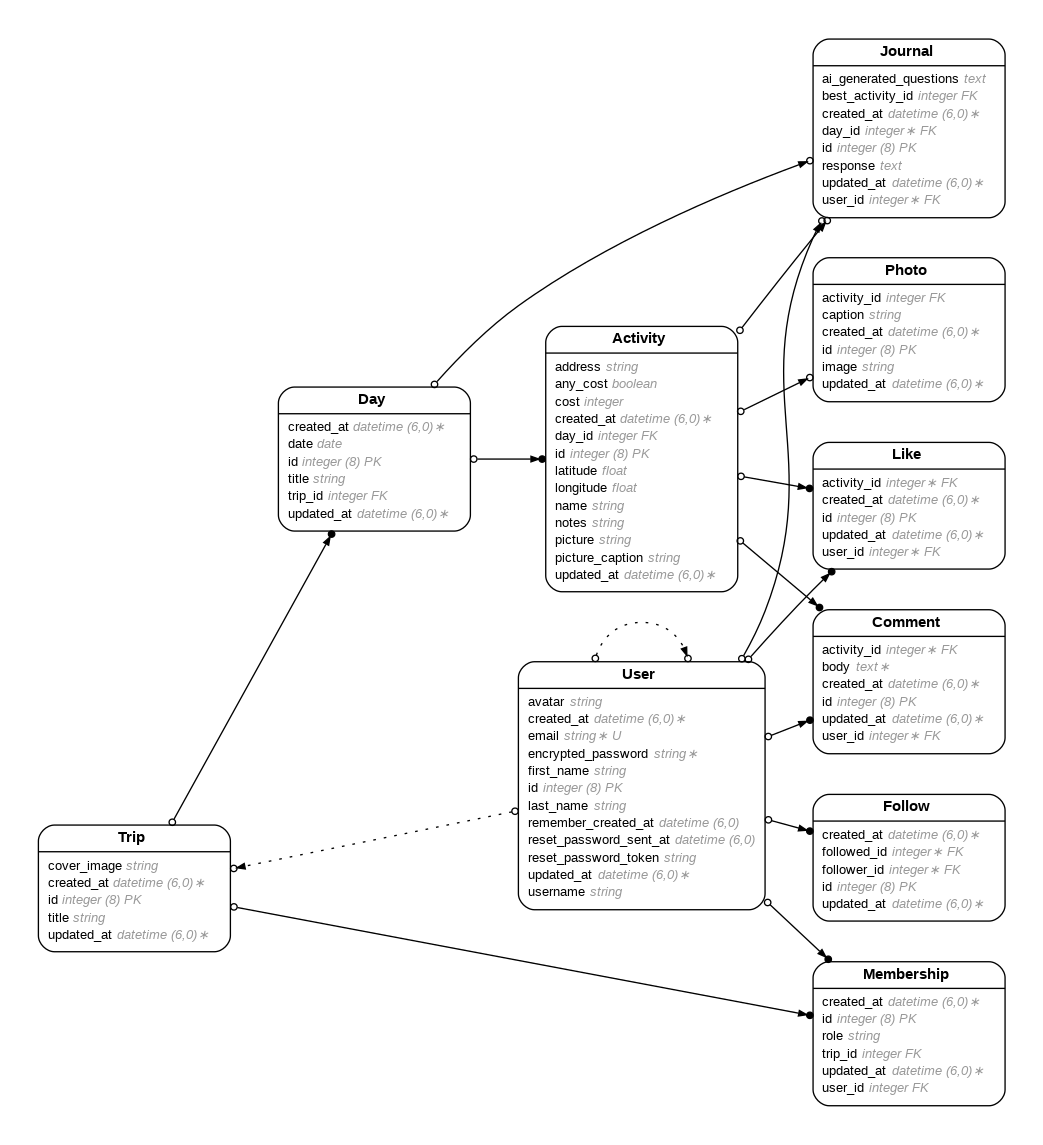
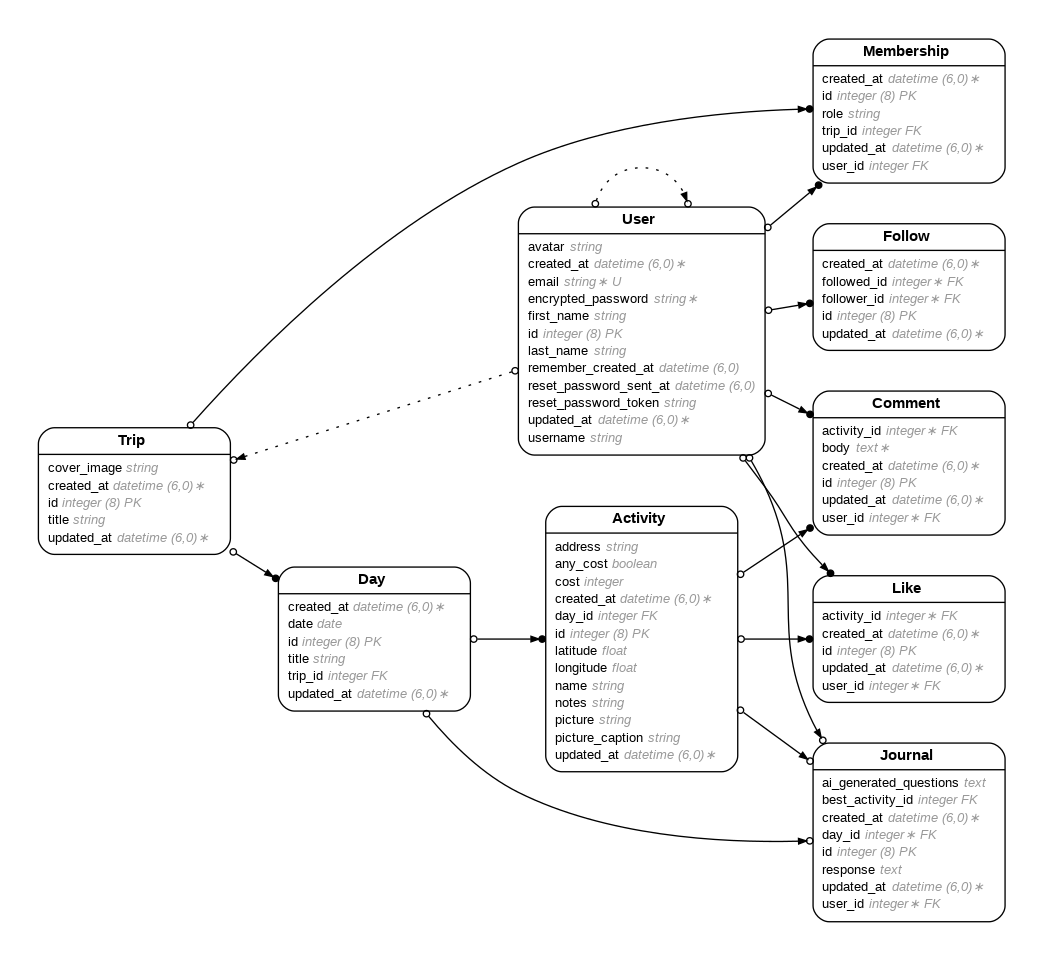
Copied the first photos record's image into activities.picture for each activity that had photos — so no data was lost Dropped the photos table

diff --git a/db/schema.rb b/db/schema.rb
@@ -10,7 +10,7 @@
 #
 # It's strongly recommended that you check this file into your version control system.
 
-ActiveRecord::Schema[8.0].define(version: 2026_02_26_220002) do
+ActiveRecord::Schema[8.0].define(version: 2026_03_03_041710) do
   # These are extensions that must be enabled in order to support this database
   enable_extension "pg_catalog.plpgsql"
 
@@ -77,14 +77,6 @@ ActiveRecord::Schema[8.0].define(version: 2026_02_26_220002) do
     t.datetime "created_at", null: false
     t.datetime "updated_at", null: false
     t.string "role", default: "owner"
-  end
-
-  create_table "photos", force: :cascade do |t|
-    t.string "caption"
-    t.string "image"
-    t.integer "activity_id"
-    t.datetime "created_at", null: false
-    t.datetime "updated_at", null: false
   end
 
   create_table "solid_cable_messages", force: :cascade do |t|

diff --git a/db/migrate/20260303041710_migrate_photos_to_activity_picture_and_drop_photos.rb b/db/migrate/20260303041710_migrate_photos_to_activity_picture_and_drop_photos.rb
@@ -1,0 +1,27 @@
+class MigratePhotosToActivityPictureAndDropPhotos < ActiveRecord::Migration[8.0]
+  def up
+    # Copy first photo image to activity.picture for any activity that has photos but no picture
+    execute <<-SQL
+      UPDATE activities
+      SET picture = (
+        SELECT image FROM photos
+        WHERE photos.activity_id = activities.id
+        ORDER BY photos.id ASC
+        LIMIT 1
+      )
+      WHERE picture IS NULL
+        AND EXISTS (SELECT 1 FROM photos WHERE photos.activity_id = activities.id)
+    SQL
+
+    drop_table :photos
+  end
+
+  def down
+    create_table :photos do |t|
+      t.string :caption
+      t.string :image
+      t.integer :activity_id
+      t.timestamps
+    end
+  end
+end

diff --git a/app/controllers/journals_controller.rb b/app/controllers/journals_controller.rb
@@ -15,12 +15,8 @@ class JournalsController < ApplicationController
     # 1. Gather Text Context
     activity_context = @the_day.activities.map { |a| "#{a.name} at #{a.address}. Note: #{a.notes}" }.join(", ")
     
-    # 2. Gather Image URLs (CarrierWave/Cloudinary Fix)
-    images = []
-    @the_day.activities.each do |a|
-      images << a.picture.url if a.picture.present?
-      a.photos.each { |p| images << p.image.url if p.image.present? }
-    end
+    # 2. Gather Image URLs
+    images = @the_day.activities.select { |a| a.picture.present? }.map { |a| a.picture.url }
 
     # 3. Call AI
     chat = AI::Chat.new

diff --git a/app/models/activity.rb b/app/models/activity.rb
@@ -19,7 +19,6 @@
 class Activity < ApplicationRecord
   belongs_to :day, required: true, class_name: "Day", foreign_key: "day_id"
   has_many :journals, class_name: "Journal", foreign_key: "best_activity_id", dependent: :destroy
-  has_many :photos, dependent: :destroy
   has_many :likes, dependent: :destroy
   has_many :comments, dependent: :destroy
   mount_uploader :picture, ImageUploader

diff --git a/config/routes.rb b/config/routes.rb
@@ -1,9 +1,5 @@
 Rails.application.routes.draw do
-  resources :photos
-
-  post("/insert_photo", { :controller => "photos", :action => "create" })
-
-  # home page to Trips Index page 
+  # home page to Trips Index page
   root "trips#index"
   # Routes for the Journal resource:
 
